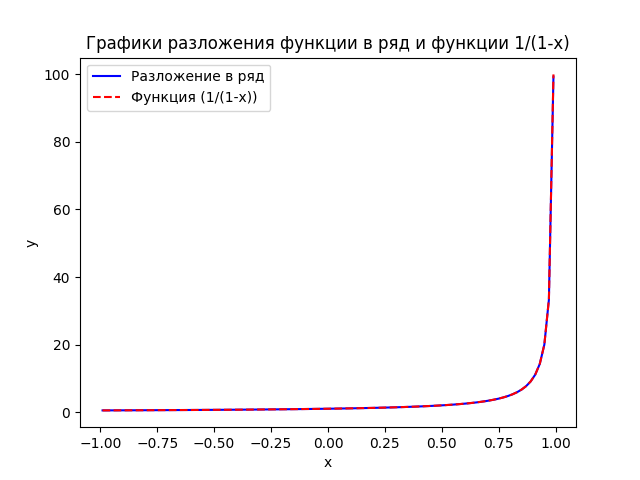
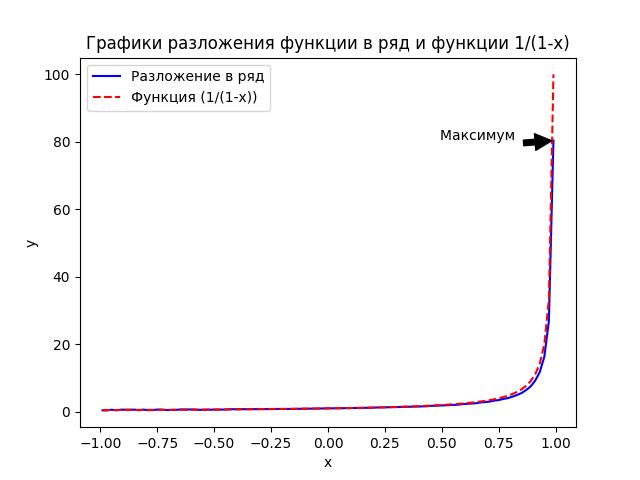
Добавить ЛР4

diff --git a/IGI/LR4/lab4/task5.py b/IGI/LR4/lab4/task5.py
@@ -1,40 +1,58 @@
 import numpy as np
 
+
+class MyStd:
+    def __init__(self, n, m):
+        self.matrix = np.random.randint(0, 100, size=(n, m))
+
+    def my_std(self):
+        """Calculate the standard deviation of the matrix elements."""
+
+        mean_value = np.mean(self.matrix)
+        squared_diff = np.mean((self.matrix - mean_value) ** 2)   #среднее квадратичное отклонение.
+        std_deviation_manual = np.sqrt(squared_diff)
+
+        std_deviation_manual = round(std_deviation_manual, 2)
+        return std_deviation_manual
+
 class MatrixMixin:
     def make_matrix(self, n, m):
         """Create a matrix with random values."""
 
         return np.random.randint(0, 100, size=(n, m))
 
-class WorkWithMatrix(MatrixMixin):
+class WorkWithMatrix(MyStd, MatrixMixin):
     instance_count = 0
     def __init__(self, n, m):
+        """Initialize the object with the specified number of rows and columns."""
+
         self.matrix = self.make_matrix(n, m)
         WorkWithMatrix.instance_count += 1
 
     def __str__(self):
+        """Return the matrix as a string."""
+
         return '\n'.join([' '.join(map(str, row)) for row in self.matrix])
 
     def count_min_elements(self):
+        """Count the number of minimum elements in the matrix."""
+
         min_value = np.min(self.matrix)
         min_count = np.count_nonzero(self.matrix == min_value)
-        return min_value, min_count
+        min_indices = np.where(self.matrix == min_value)
+        return min_value, min_count, min_indices
 
     def numpy_std(self):
         """Calculate the standard deviation of the matrix elements."""
+
         std_deviation = np.std(self.matrix)
         return round(std_deviation, 2)
 
-    def my_std(self):
-        mean_value = np.mean(self.matrix)
-        squared_diff = np.mean((self.matrix - mean_value) ** 2)   #Sum of squares of deviations.
-        std_deviation_manual = np.sqrt(squared_diff)
 
-        std_deviation_manual = round(std_deviation_manual, 2)
-        return std_deviation_manual
 
 
 def task5_solve():
+    """Create a matrix and display the minimum element, the number of minimum elements, and the standard deviation."""
 
     print("Введите количество строк матрицы: ")
     n = input_natural_number()
@@ -51,6 +69,7 @@ def task5_solve():
 
 def input_natural_number():
     """Input a natural number from the user."""
+
     while True:
         try:
             num = int(input())

diff --git a/IGI/LR4/lab4/TextAnalyzer.py b/IGI/LR4/lab4/TextAnalyzer.py
@@ -26,10 +26,11 @@ class TextAnalyzer:
     def analyze_text(self):
         """Analyze the text."""
 
-        self.sentences = re.split(r'(?<=[.!?]) +', self.text)
+        self.sentences = re.split(r'(?<=[.!?])[ +\n]', self.text)
         self.all_words = self.find_words(self.text)
         self.sentence_types = self.count_sentence_types(self.sentences)
         self.smileys = self.find_smileys(self.text)
+
 
         lines = self.text.splitlines()
 
@@ -43,8 +44,7 @@ class TextAnalyzer:
             self.count_words_in_line[ind] = word_count
 
 
-
-    def find_words(self,text):
+    def find_words(self, text):
         """Find all words in the text."""
 
         words = re.findall(r'\b\w+\b', text)
@@ -58,7 +58,8 @@ class TextAnalyzer:
     def is_valid_email(self, email):
         """Check if the email is valid."""
 
-        pattern = r'^[a-zA-Z0-9._%+-]+@[a-zA-Z0-9.-]+\.[a-zA-Z]{2,}$'
+        pattern = r'^\w+@\w+\.[a-zA-Z]{2,}$'
+        #pattern = r'^[a-zA-Z0-9._%+-]+@[a-zA-Z0-9.-]+\.[a-zA-Z]{2,}$'
         return re.match(pattern, email) is not None
 
     def count_sentence_types(self, sentences):

diff --git a/IGI/LR4/lab4/task4.py b/IGI/LR4/lab4/task4.py
@@ -11,10 +11,6 @@ class GeometricFigure(ABC):
 
         self.name = input_name
 
-    def get_name(self):
-        """Return the name of the figure."""
-
-        return self.name
     @abstractmethod
     def area(self):
         """Calculate the area of the figure."""
@@ -63,7 +59,7 @@ class Triangle(GeometricFigure):
     def draw(self):
 
         fig, ax = plt.subplots(figsize=(8, 6))
-        # calculate the coordinates of the vertices
+
         x2 = self.height * math.tan(self.angle)
         y2 = self.height
         vertices = [[0, 0], [self.base, 0], [x2, y2]]

diff --git a/IGI/LR4/lab4/SequenceAnalyzer.py b/IGI/LR4/lab4/SequenceAnalyzer.py
@@ -68,6 +68,10 @@ class SequenceAnalyzer:
 
         plt.plot(x_values, y_values_math, label='Функция (1/(1-x))', color='red', linestyle='--')
 
+        max_y = max(y_values_series)
+        max_x = x_values[y_values_series.index(max_y)]
+        plt.annotate('Максимум ', xy=(max_x, max_y), xytext=(max_x - 0.5, max_y + 0.1), arrowprops=dict(facecolor='black', shrink=0.05))
+
         plt.xlabel('x')
         plt.ylabel('y')
         plt.title('Графики разложения функции в ряд и функции 1/(1-x)')

diff --git a/IGI/LR4/lab4/Notebook.py b/IGI/LR4/lab4/Notebook.py
@@ -6,12 +6,13 @@ class Notebook:
 
     def __init__(self):
         """Initialize the notebook."""
+
         self.entries = []
 
     def add_entry(self, surname, phone):
         """Add a new entry to the notebook."""
-        if self.validate_phone(phone):
-            self.entries.append({'surname': surname, 'phone': phone})
+
+        self.entries.append({'surname': surname, 'phone': phone})
 
     @staticmethod
     def validate_phone(phone):

diff --git a/IGI/LR4/lab4/main.py b/IGI/LR4/lab4/main.py
@@ -3,6 +3,7 @@ import task2_solve
 import task3_solve
 import task4
 import task5
+import math
 
 # Lab work 4 Classes, files, serialization, regular expressions and standard libraries
 # Kvachenyuk Yana 14.04.2024
